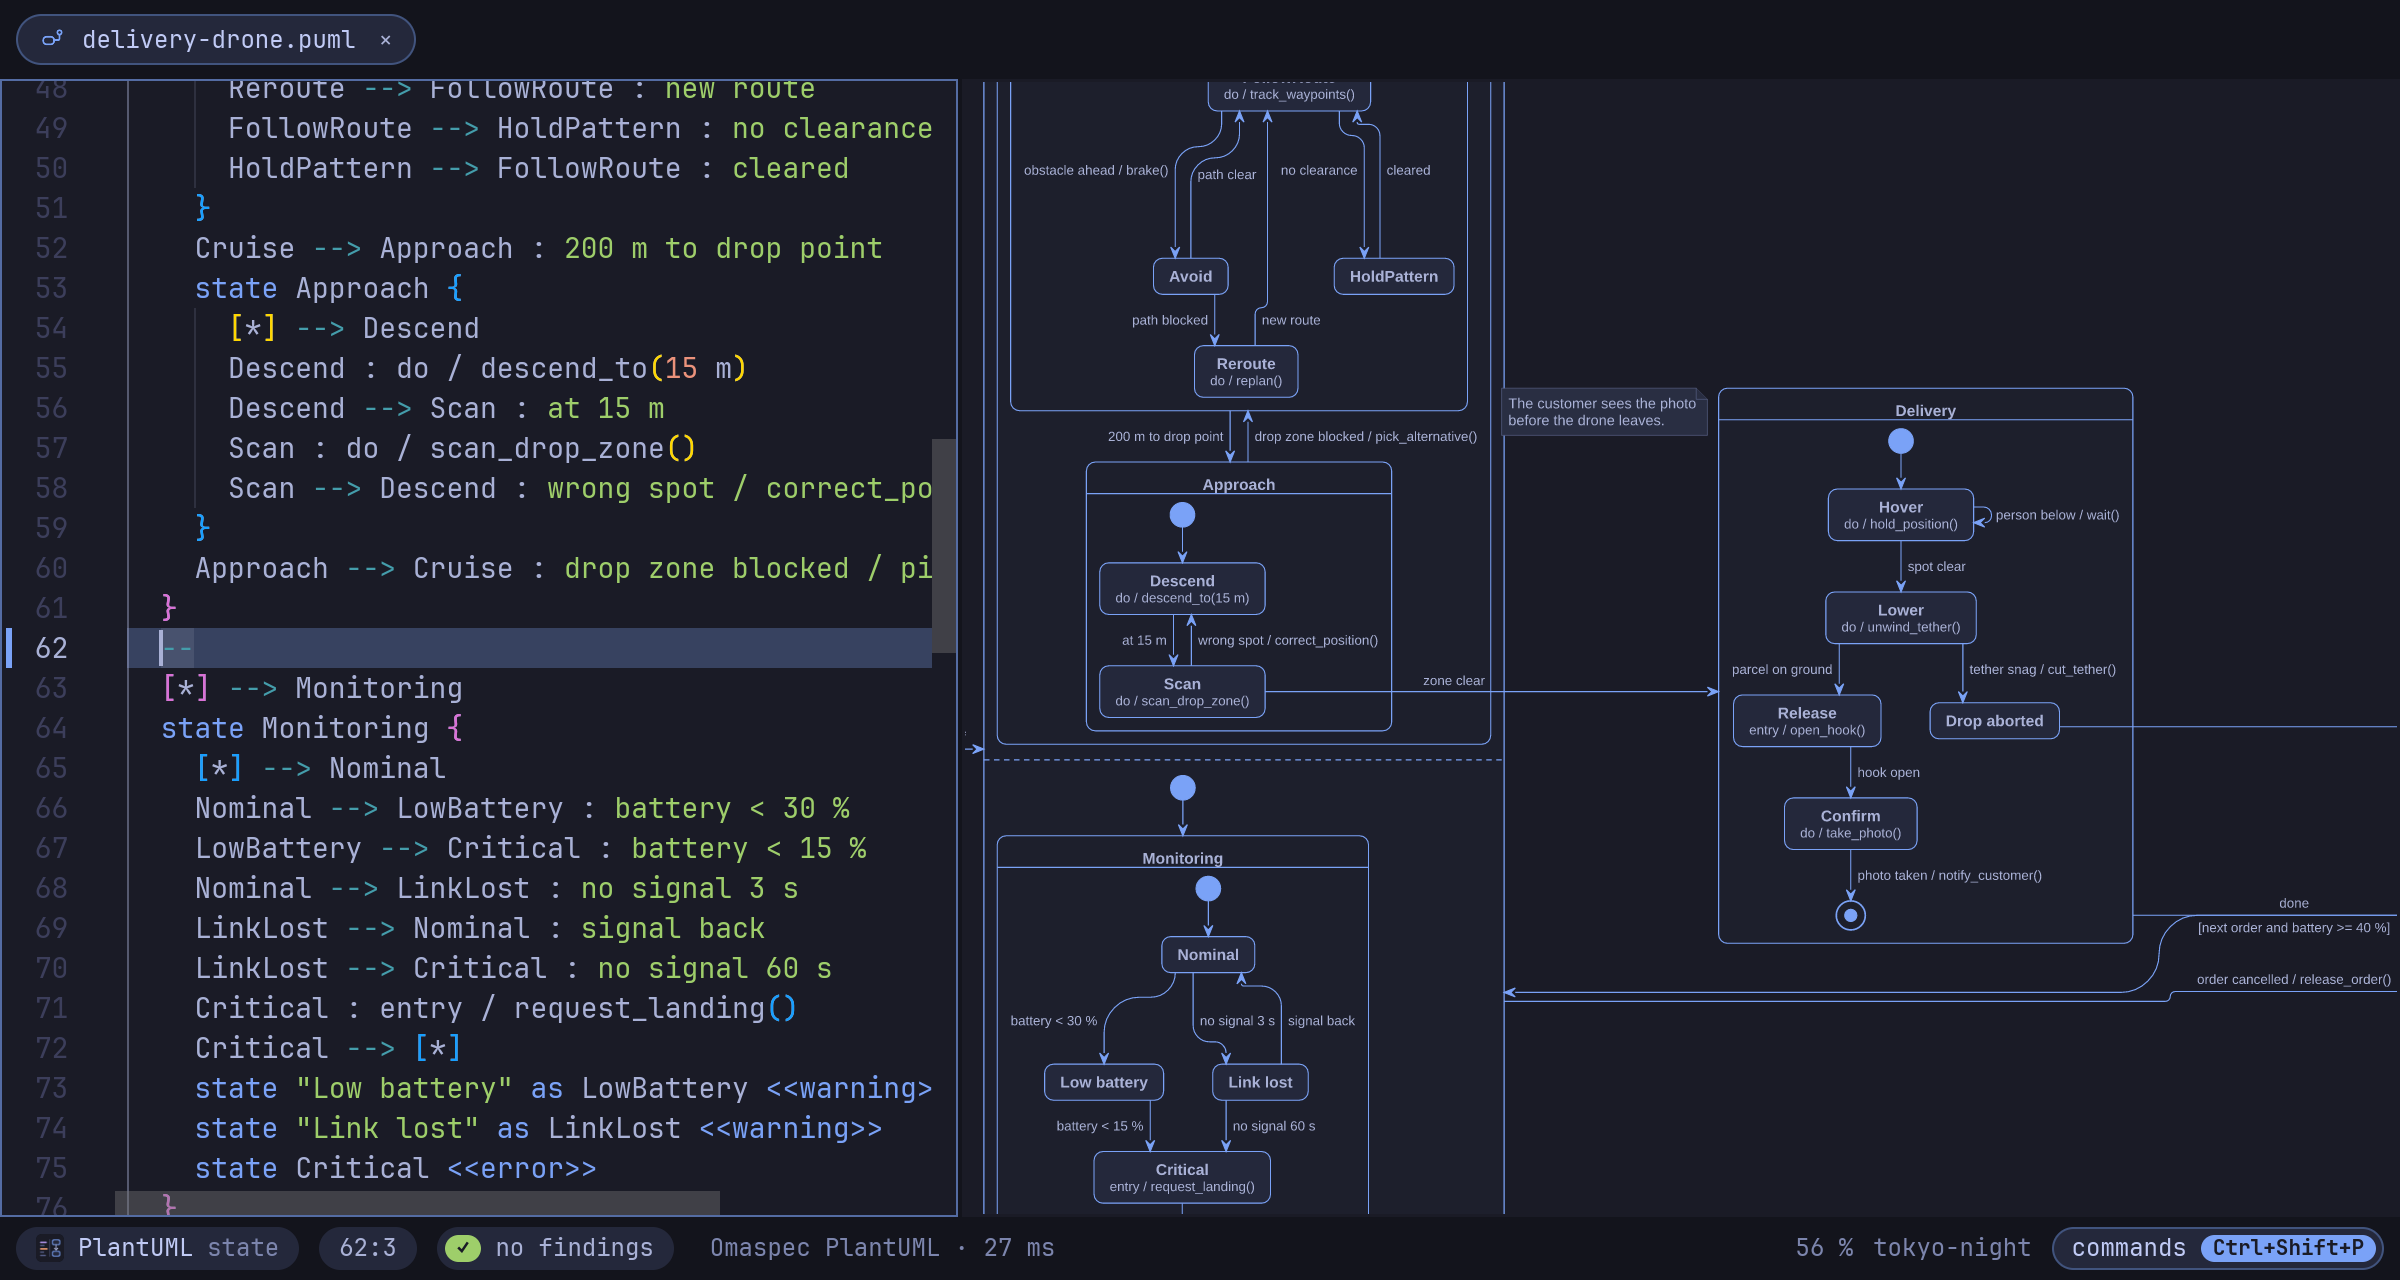
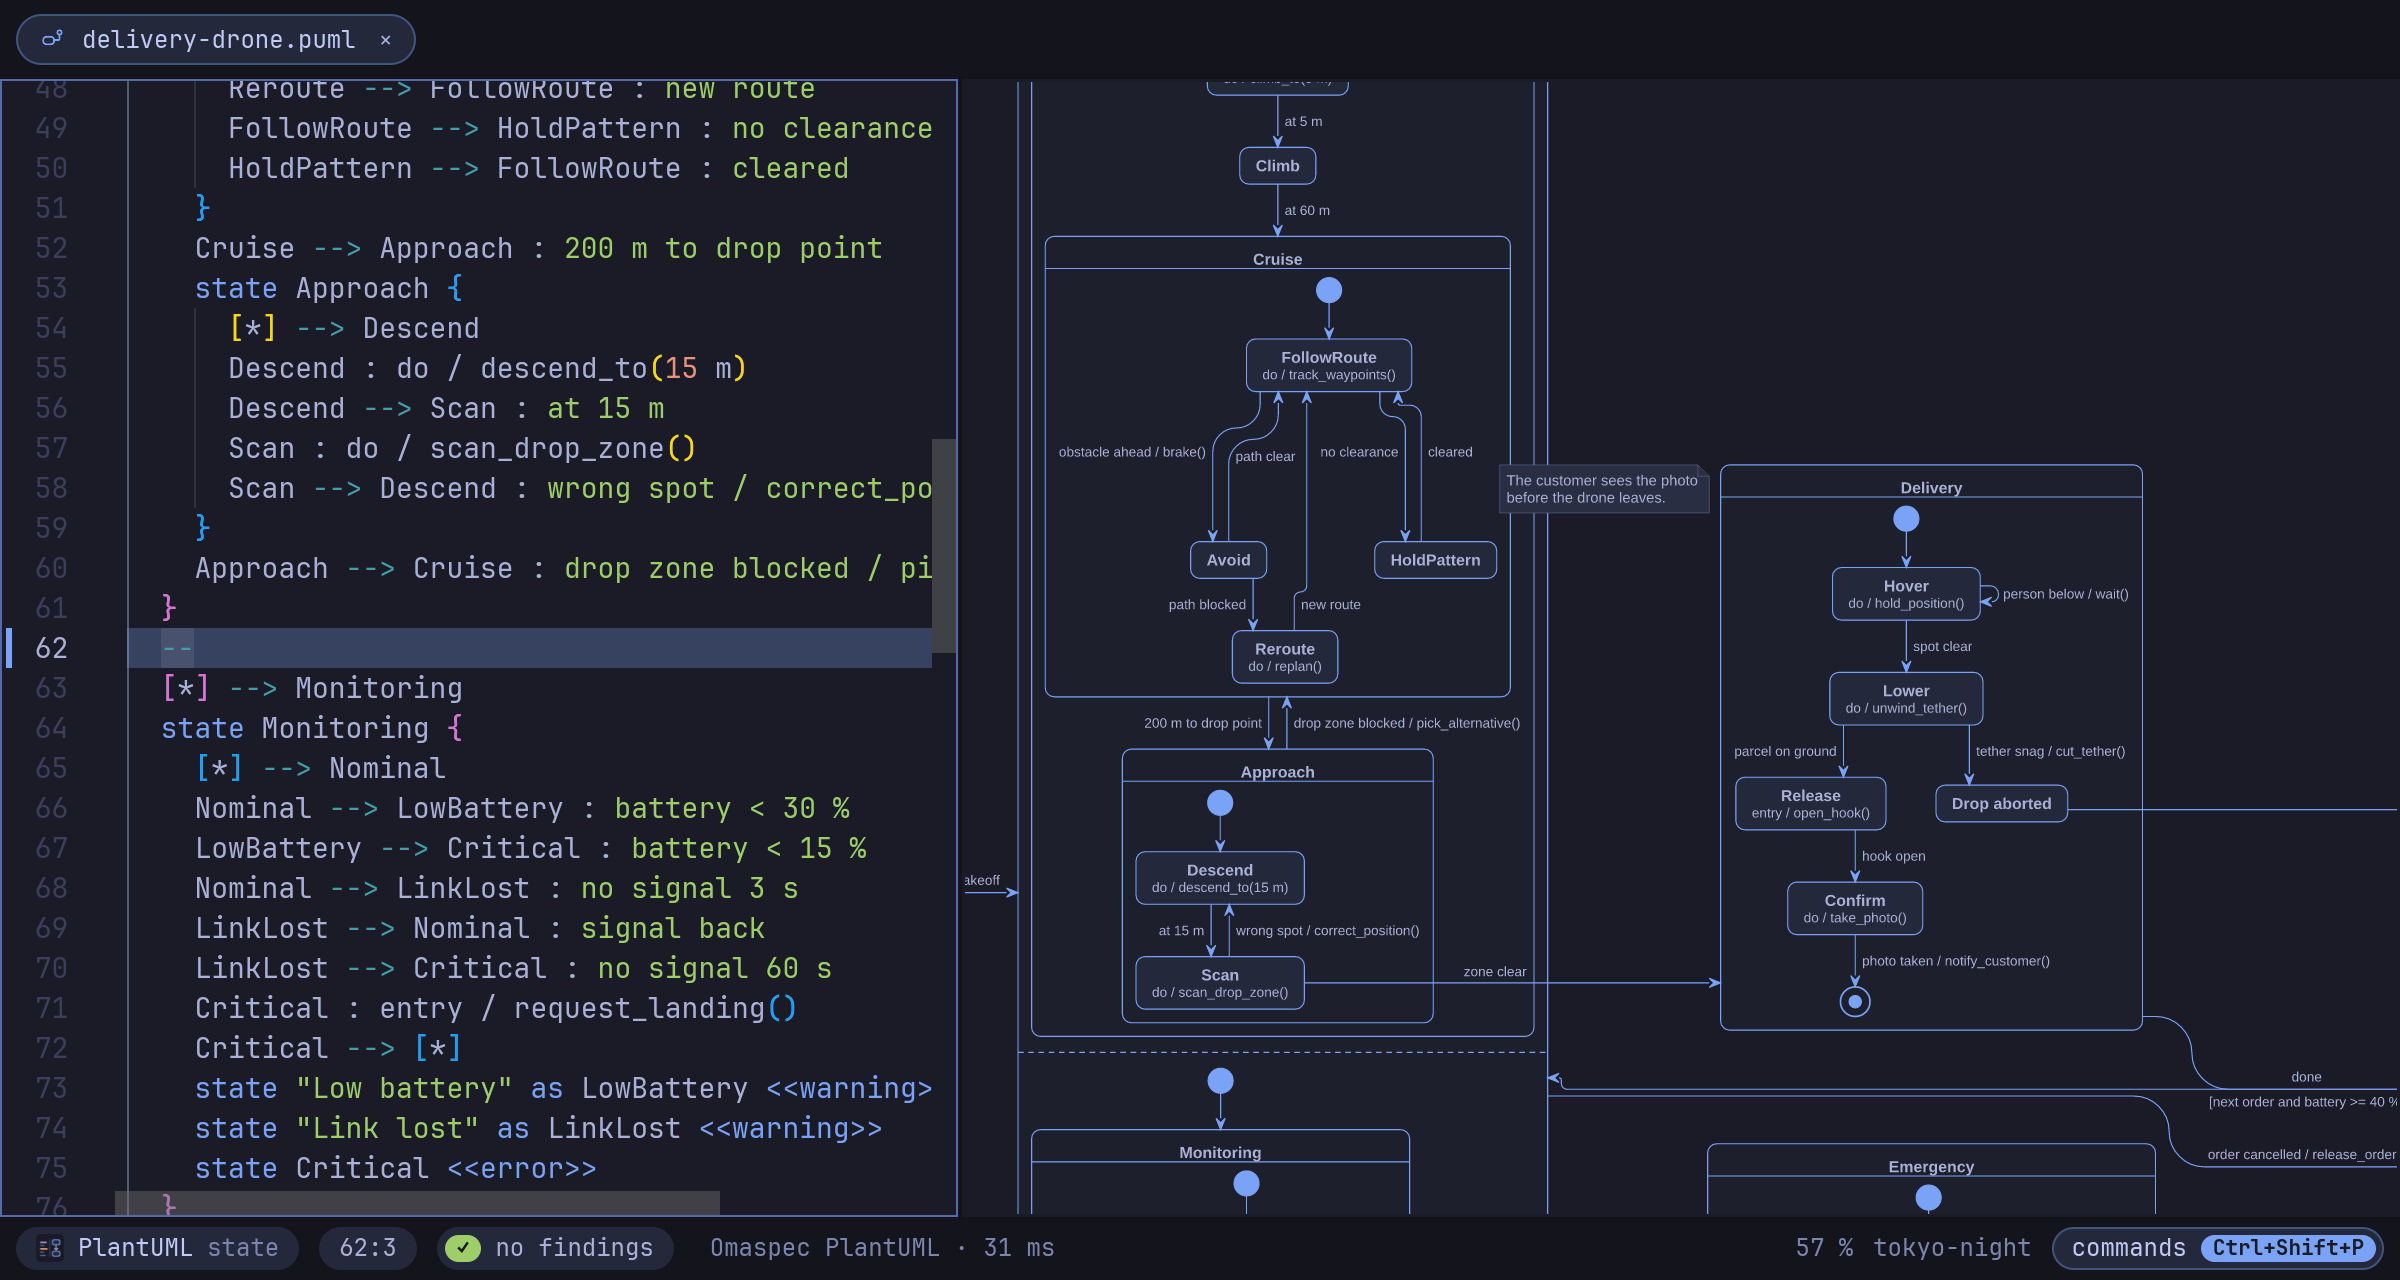
docs: the drone's picture taken again
Its outer layout changed with the long lines laid again as a whole. The
other pictures show nothing that moved.

diff --git a/ROADMAP.md b/ROADMAP.md
@@ -1119,7 +1119,8 @@ diagrams that link were released as 0.5.0 on 2026-11-01.
         container's border to its other end as it carries any line, and
         only the stretch inside is routed afterwards; a change to
         `graph::open` and `graph::across` with an ADR of its own.
-        The README's picture of the drone is from before.
+        The README's picture of the drone is taken again; the other
+        pictures show nothing that moved.
   - [x] Lines by hand curve like the layout's (2026-11-08): a corner the
         writer placed was rounded by at most 16 units, so a run dragged
         out of the layout turned a wide curve into a near right angle; now
